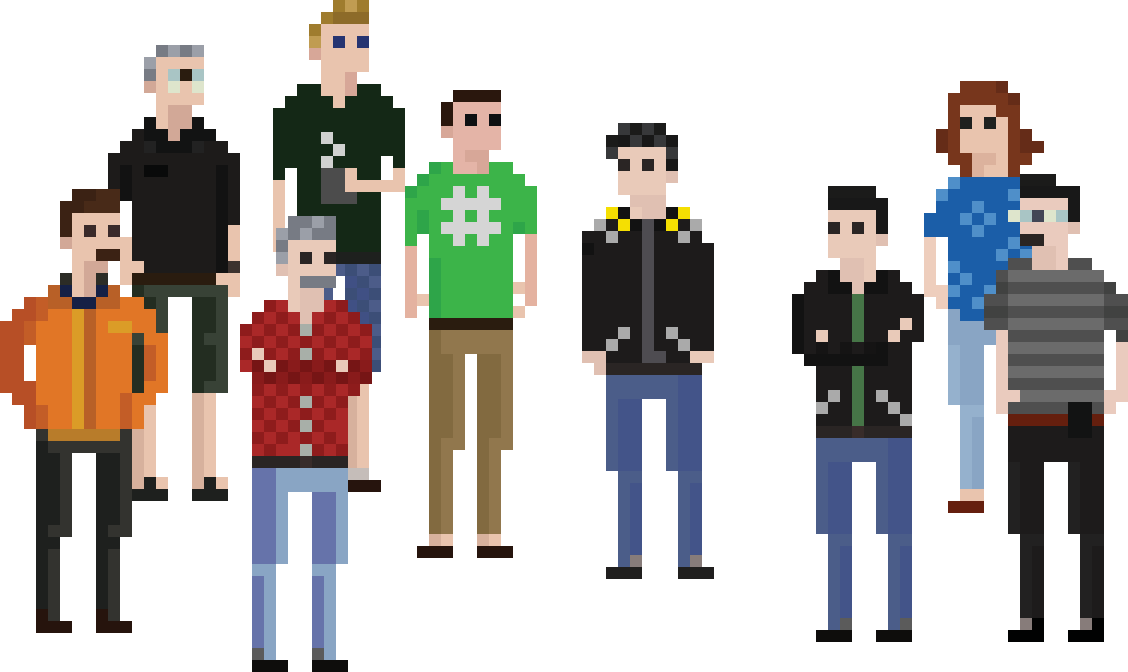
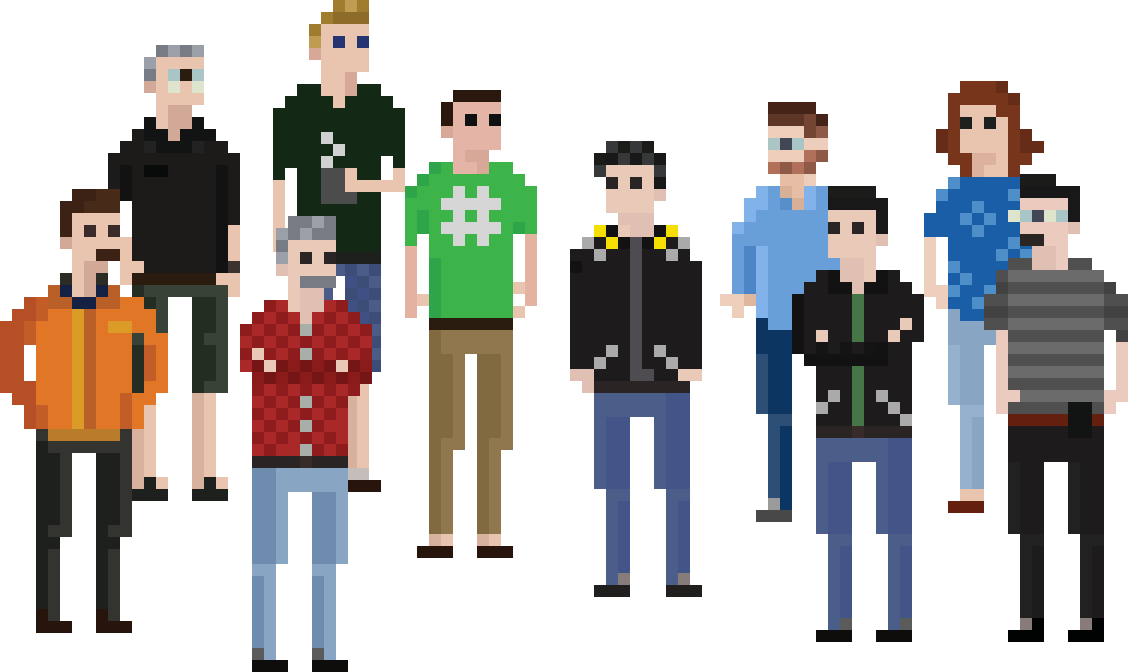
team section

Changed region(s): [[0.4965, 0.125, 0.7447, 0.9062], [0.2172, 0.6875, 0.2482, 0.9688], [0.2793, 0.7188, 0.3103, 0.9688]]

diff --git a/team/index.html b/team/index.html
@@ -103,6 +103,17 @@ title: CRU - Team
             </div>
             <div class="faculty-card">
                 <div class="faculty-image">
+                    <img src="/media/team/steven_pic.png" alt="">
+                </div>
+                <div class="faculty-info">
+                    <h3>Steven Barkey</h3>
+                    <p>Help Desk
+                    </p>
+                    <a href="mailto:sjbarkey@ucdavis.edu">sjbarkey@ucdavis.edu</a>
+                </div>
+            </div>
+            <div class="faculty-card">
+                <div class="faculty-image">
                     <img src="/media/team/dj_pic.png" alt="">
                 </div>
                 <div class="faculty-info">
